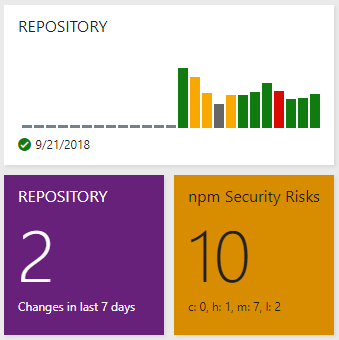
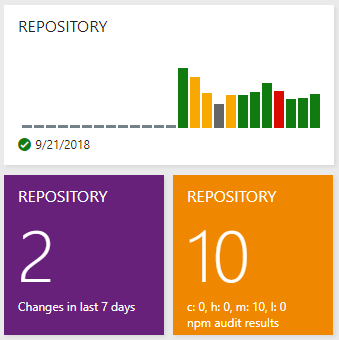
refactoring, updated colors, added coveralls

diff --git a/src/auditWidget.js b/src/auditWidget.js
@@ -1,4 +1,43 @@
-const _getData = ({ client, buildId, projectId, JSZip }) =>
+const _render = (severities, title) => {
+  const severityKeys = ['critical', 'high', 'moderate', 'low'];
+  let numOfIssues = 'N/A';
+  let footerText = 'no audit_results';
+  let backgroundColor = ''
+  let color = '#000000';
+
+  if (severities) {
+    numOfIssues = severityKeys.reduce((prev, next) => prev + (severities[next] || 0), 0);
+    footerText = severityKeys.reduce((prev, next) => `${prev ? `${prev}, `: prev } ${next.charAt(0)}: ${(severities[next] || 0)}`, '');
+    
+    if (severities['critical']) {
+      backgroundColor = '#DA0A00';
+      color = '#ffffff';
+    } else if (severities['high']) {
+      backgroundColor = '#FF6201';
+      color = '#ffffff';
+    } else if (severities['moderate']) {
+      backgroundColor = '#F08700';
+      color = '#ffffff';
+    } else if (severities['low']) {
+      backgroundColor = '#F8A800';
+      color = '#000';
+    } else {
+      backgroundColor = '#107C10';
+      color = '#ffffff'
+    }
+  }
+  return `
+<div id='widget' class='widget' style='${color ? `color:${color};`: ''}${backgroundColor ? `background-color:${backgroundColor};`: ''}'>
+  <h2 class="title">${title}</h2>
+  <div class="big-count truncated-text-ellipsis">${numOfIssues}</div>
+  <div class="footer truncated-text-ellipsis">${footerText}</div>
+  <div class="footer truncated-text-ellipsis">
+    <a style='${color ? `color:${color};`: ''}' href="https://docs.npmjs.com/getting-started/running-a-security-audit">npm audit</a> results
+  </div>
+</div>`;
+}
+
+const _getZipData = ({ client, buildId, projectId, JSZip }) =>
   client.getArtifactContentZip(buildId, 'audit_results', projectId)
   .then((zipArrayBuffer) => {
     if (!zipArrayBuffer) {
@@ -6,60 +45,13 @@ const _getData = ({ client, buildId, projectId, JSZip }) =>
     }
     return JSZip.loadAsync(zipArrayBuffer)
     .then((zip) => zip.file('audit_results/audit.json').async('string'))
-    .then((auditJson) => {
-      const auditData = JSON.parse(auditJson);
-      return auditData.metadata.vulnerabilities;
-
-      // return Object.keys(auditData.advisories)
-      //   .reduce((prev, key) => {
-      //     const advisory = auditData.advisories[key];
-          
-      //     prev[advisory.severity] = (prev[advisory.severity] || 0) + 1;
-
-      //     return prev;
-      //   }, {});
-    });
+    .then((auditJson) =>  JSON.parse(auditJson));
   });
-  
-
-const _paint = (severities, msg) => {
-  const severityKeys = ['critical', 'high', 'moderate', 'low'];
-  let numOfIssues = 'N/A';
-  let footerText = '';
-  let backgroundColor = ''
-
-  if (severities) {
-    numOfIssues = severityKeys.reduce((prev, next) => prev + (severities[next] || 0), 0);
-    footerText = severityKeys.reduce((prev, next) => `${prev ? `${prev}, `: prev } ${next.charAt(0)}: ${(severities[next] || 0)}`, '');
-    
-    if (severities['critical']) {
-      backgroundColor = '#da0a00';
-    } else if (severities['high']) {
-      backgroundColor = '#D88C00';
-    } else if (severities['moderate']) {
-      backgroundColor = '#CFD600';
-    } else if (severities['low']) {
-      backgroundColor = '#CFD600';
-    }
-  } else if (!msg) {
-    backgroundColor = '#107c10';
-  }
-  return `
-<div id='widget' class='widget' style='background-color:${backgroundColor};'>
-  <h2 class="title">npm Security Risks</h2>
-  <div class="big-count truncated-text-ellipsis">${numOfIssues}</div>
-  <div class="footer runcated-text-ellipsis">${footerText}</div>
-</div>`;
-}
 
 const _showWarnings = ({ callback, VSS, JSZip, WidgetHelpers, BuildRestClient, BuildContracts }) =>
   (widgetSettings) => {
     var customSettings = JSON.parse(widgetSettings.customSettings.data);
     if (!customSettings) {
-      customSettings = {
-        definitionId: null,
-        buildName: null
-      };
       return WidgetHelpers.WidgetStatusHelper.Success();
     }
 
@@ -69,8 +61,11 @@ const _showWarnings = ({ callback, VSS, JSZip, WidgetHelpers, BuildRestClient, B
     client.getBuilds(projectId, [customSettings.definitionId])
     .then((builds) => {
       if (builds.length > 0) {
-        return _getData({ client, buildId: builds[0].id, projectId, JSZip })
-        .then((severities) => callback(_paint(severities)));
+        return _getZipData({ client, buildId: builds[0].id, projectId, JSZip })
+        .then((auditData) => callback(
+          _render(auditData && auditData.metadata && auditData.metadata.vulnerabilities, customSettings.buildName),
+          auditData
+        ));
       }
     }); //todo: error handling
     return WidgetHelpers.WidgetStatusHelper.Success();

diff --git a/test/app.spec.js b/test/app.spec.js
@@ -12,10 +12,13 @@ describe('app', () => {
       app(VSS, JSZip, (renderedApp) => {
         expect(renderedApp).toEqual(
 `
-<div id='widget' class='widget' style='background-color:#CFD600;'>
-  <h2 class="title">npm Security Risks</h2>
+<div id='widget' class='widget' style='color:#ffffff;background-color:#F08700;'>
+  <h2 class="title">TRUNK</h2>
   <div class="big-count truncated-text-ellipsis">10</div>
-  <div class="footer runcated-text-ellipsis"> c: 0,  h: 0,  m: 10,  l: 0</div>
+  <div class="footer truncated-text-ellipsis"> c: 0,  h: 0,  m: 10,  l: 0</div>
+  <div class="footer truncated-text-ellipsis">
+    <a style='color:#ffffff;' href="https://docs.npmjs.com/getting-started/running-a-security-audit">npm audit</a> results
+  </div>
 </div>`
         );
         resolve();
@@ -31,10 +34,13 @@ describe('app', () => {
       app(VSS, JSZip, (renderedApp) => {
         expect(renderedApp).toEqual(
 `
-<div id='widget' class='widget' style='background-color:#da0a00;'>
-  <h2 class="title">npm Security Risks</h2>
+<div id='widget' class='widget' style='color:#ffffff;background-color:#DA0A00;'>
+  <h2 class="title">TRUNK</h2>
   <div class="big-count truncated-text-ellipsis">15</div>
-  <div class="footer runcated-text-ellipsis"> c: 1,  h: 4,  m: 10,  l: 0</div>
+  <div class="footer truncated-text-ellipsis"> c: 1,  h: 4,  m: 10,  l: 0</div>
+  <div class="footer truncated-text-ellipsis">
+    <a style='color:#ffffff;' href="https://docs.npmjs.com/getting-started/running-a-security-audit">npm audit</a> results
+  </div>
 </div>`
         );
         resolve();
@@ -43,17 +49,21 @@ describe('app', () => {
   });
 
   it('tid-3: handles no results', () => {
-    expect.assertions(1);
+    expect.assertions(2);
     const VSS = new MockVss({ zipFile: null });
 
     return new Promise((resolve) =>
-      app(VSS, JSZip, (renderedApp) => {
+      app(VSS, JSZip, (renderedApp, data) => {
+        expect(data).toEqual(null);
         expect(renderedApp).toEqual(
 `
-<div id='widget' class='widget' style='background-color:#107c10;'>
-  <h2 class="title">npm Security Risks</h2>
+<div id='widget' class='widget' style='color:#000000;'>
+  <h2 class="title">TRUNK</h2>
   <div class="big-count truncated-text-ellipsis">N/A</div>
-  <div class="footer runcated-text-ellipsis"></div>
+  <div class="footer truncated-text-ellipsis">no audit_results</div>
+  <div class="footer truncated-text-ellipsis">
+    <a style='color:#000000;' href="https://docs.npmjs.com/getting-started/running-a-security-audit">npm audit</a> results
+  </div>
 </div>`
         );
         resolve();

diff --git a/test/VSS.mock.js b/test/VSS.mock.js
@@ -43,6 +43,7 @@ export default function({ zipFile }) {
       customSettings: {
         data: JSON.stringify({
           definitionId: 5655,
+          buildName: 'TRUNK',
         })
       }
     });

diff --git a/README.md b/README.md
@@ -1,6 +1,7 @@
 # ![logo](img/logo.png) npm-audit-widget
 
-[![Build Status](https://api.travis-ci.org/BrandonBoone/npm-audit-widget.svg?branch=master)](https://travis-ci.org/BrandonBoone/npm-audit-widget) 
+[![Build Status](https://api.travis-ci.org/BrandonBoone/npm-audit-widget.svg?branch=master)](https://travis-ci.org/BrandonBoone/npm-audit-widget)
+[![Coverage Status](https://coveralls.io/repos/github/BrandonBoone/npm-audit-widget/badge.svg?branch=master)](https://coveralls.io/github/BrandonBoone/npm-audit-widget?branch=master)
 [![Greenkeeper badge](https://badges.greenkeeper.io/BrandonBoone/npm-audit-widget.svg)](https://greenkeeper.io/)
 [![Dependency Status](https://david-dm.org/BrandonBoone/npm-audit-widget.svg)](https://david-dm.org/BrandonBoone/npm-audit-widget)
 [![devDependency Status](https://david-dm.org/BrandonBoone/npm-audit-widget/dev-status.svg)](https://david-dm.org/BrandonBoone/npm-audit-widget#info=devDependencies)
